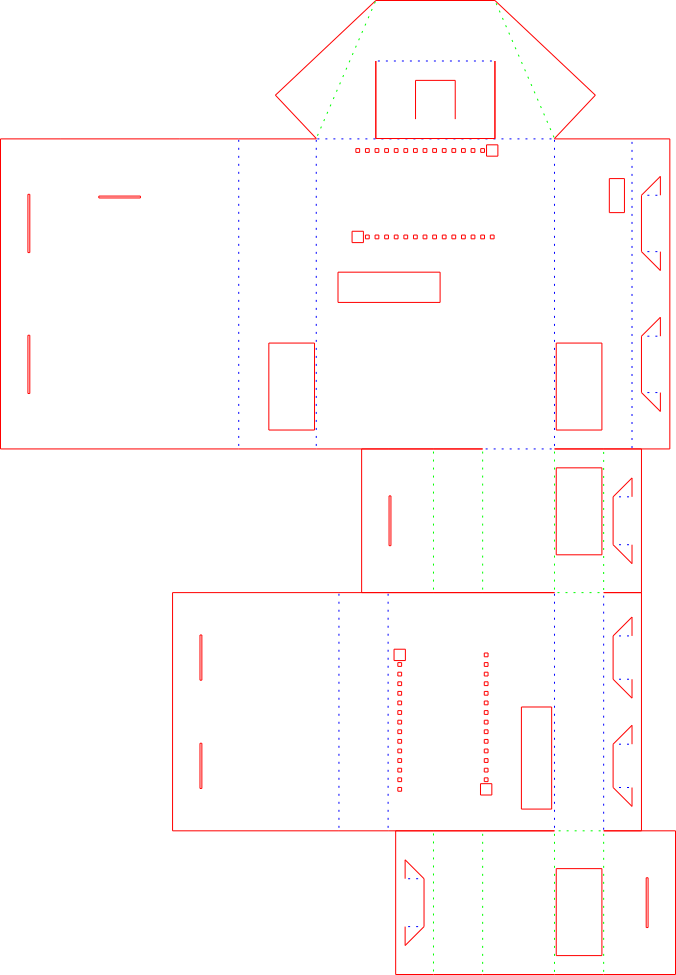
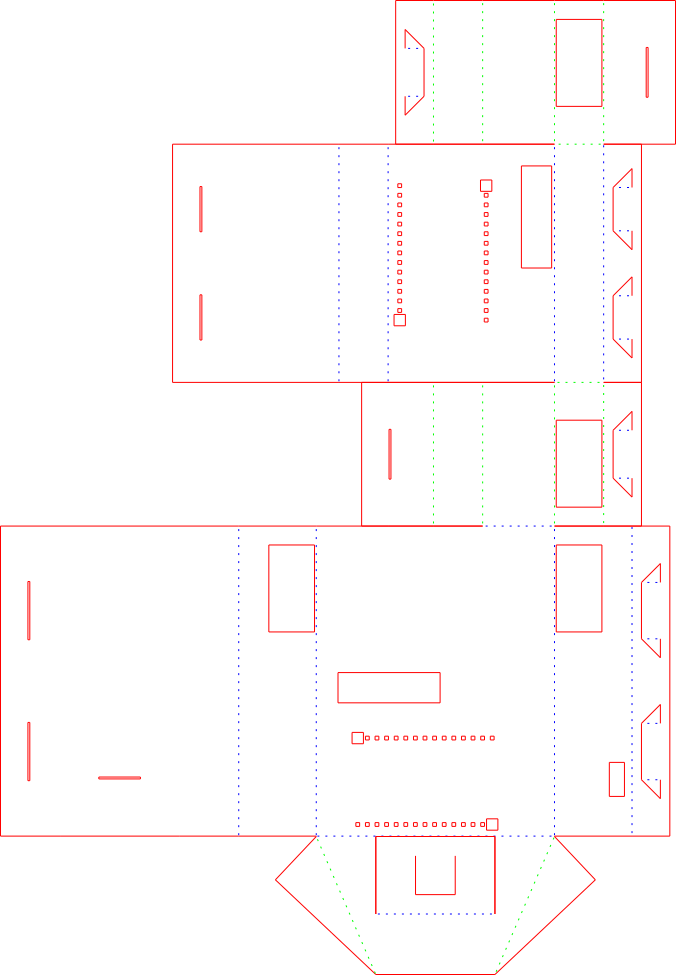
Inverted vertical axis

diff --git a/README.md b/README.md
@@ -29,7 +29,7 @@
 - Paper chassis (see below)
 
 Red lines: cut / 
-Blue dotted lines: valley fold / 
-Green dotted lines: mountain fold
+Blue dotted lines: mountain fold / 
+Green dotted lines: valley fold
 ![Paper chassis](/paperbot.png "Paper chassis")
 
